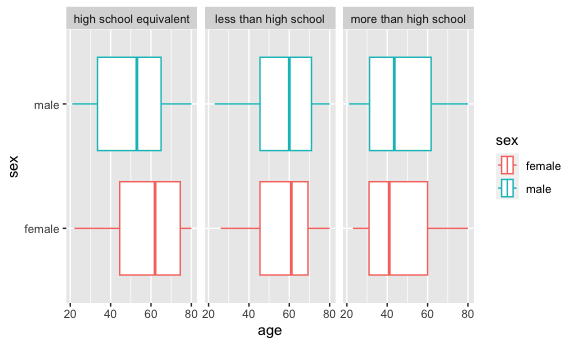
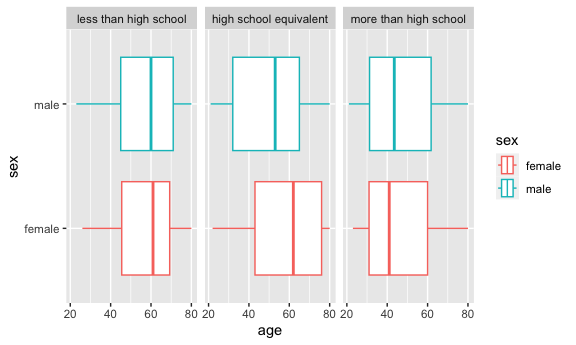
problem 3

diff --git a/p8105_hw3_yl5214.md b/p8105_hw3_yl5214.md
@@ -60,8 +60,7 @@ brfss_2010=brfss |>
   filter(n_obs>=7)
 ```
 
-In 2002, 6 states were observed at 7 or more locations. In 2010, 14
-states were observed at 7 or more locations.
+#### Comment: In 2002, 6 states were observed at 7 or more locations. In 2010, 14 states were observed at 7 or more locations.
 
 ## Construct a dataset that is limited to Excellent responses, and contains, year, state, and a variable that averages the data_value across locations within a state. Make a “spaghetti” plot of this average value over time within a state (that is, make a plot showing a line for each state across years – the geom_line geometry and group aesthetic will help).
 
@@ -75,6 +74,8 @@ brfss_excellent=brfss |>
   ggplot(aes (x= year, y= average_value, color=state))+
   geom_line()
 ```
+
+#### Comment:
 
 \##Make a two-panel plot showing, for the years 2006, and 2010,
 distribution of data_value for responses (“Poor” to “Excellent”) among
@@ -91,6 +92,8 @@ brfss_two=brfss |>
   geom_boxplot()+
   facet_grid(. ~ year)
 ```
+
+#### Comment:
 
 ## Problem 3
 
@@ -127,7 +130,10 @@ covar=
       2~'high school equivalent',
       3~'more than high school'
     )
-  )
+  ) |> 
+  mutate(
+    education=forcats::fct_relevel
+    (education, c('less than high school', 'high school equivalent', 'more than high school')))
 ```
 
 ``` r
@@ -137,7 +143,13 @@ accel=
              cols(
                'SEQN'=col_factor()
              ))|> 
-  janitor::clean_names()
+  janitor::clean_names() |> 
+    pivot_longer(
+    min1:min1440,
+    names_to = "minute",
+    names_prefix = "min",
+    values_to = "activity"
+  )
 
 merge=
   left_join(covar,accel, by = 'seqn')
@@ -146,7 +158,7 @@ merge=
 ## Produce a reader-friendly table for the number of men and women in each education category, and create a visualization of the age distributions for men and women in each education category. Comment on these items.
 
 ``` r
-merge |> 
+covar |> 
   count(education,sex) |> 
     pivot_wider(
     names_from =sex,
@@ -157,18 +169,11 @@ knitr::kable()
 
 | education              | female | male |
 |:-----------------------|-------:|-----:|
-| high school equivalent |     23 |   35 |
 | less than high school  |     28 |   27 |
+| high school equivalent |     23 |   35 |
 | more than high school  |     59 |   56 |
 
-#### Comment:
-
-The number of male and female are similar in less than high school and
-more than high school category. For high school equivalent education,
-the number of male and female are very different. The number of male and
-female in more than high school category are the highest among all three
-catergories. There is an increasing trend in number of male and female
-when education level increase.
+#### Comment: The number of male and female are similar in less than high school and more than high school category. For high school equivalent education, the number of male and female are very different. The number of male and female in more than high school category are the highest among all three catergories. There is an increasing trend in number of male and female when education level increase.
 
 ``` r
 merge |> 
@@ -185,21 +190,45 @@ merge |>
 ``` r
 merge_aggregate=merge |>
   group_by (seqn,sex,education,age) |> 
-  pivot_longer(
-    min1:min1440,
-    names_to = "minute",
-    names_prefix = "min",
-    values_to = "activity"
-  ) |> 
   summarize(total_activity = sum(activity)) |> 
   ggplot(aes(x=age , y=total_activity, color= sex))+
   geom_point()+
   geom_smooth()+
   facet_grid(. ~ education)+
-  labs(x = "Age", y = "Total Activity", color = "sex")
+  labs(
+    x = "Age",
+    y = "Total Activity", 
+    color = "sex",
+    title =" Total activities against age"
+    )
 ```
 
     ## `summarise()` has grouped output by 'seqn', 'sex', 'education'. You can
     ## override using the `.groups` argument.
 
-#### Comment: For ‘high school equivalent’ graph, total activity of female is overall greater than the total activity of man across age 20 to 80. Both male and female have an overall decreasing trendline from age 40 to 80, although they both have a slight increase from age 20 to 40, with the peak in age 40. For ‘less than high school’ graph, total activity of male is overall greater than the total activity of female across age 20 to 80. Both male and female have an overall decreasing trendline from age 20 to 80, although total activity of male has a bigger spike from age 40 to 60 with peak activity in age 20. For ‘more than high school’ graph, total activity of female is overall greater than the total activity of man across age 20 to 80. Both male and female have an overall decreasing trendline from age 20 to 80. However, from age 20 to 60, the total activity of female is constant. From age 20 to 40, the total activity of male is constant.
+#### Comment: For ‘less than high school’ graph, total activity of male is overall greater than the total activity of female across age 20 to 80. Both male and female have an overall decreasing trendline from age 20 to 80, although total activity of male has a bigger spike from age 40 to 60 with peak activity in age 20. For ‘high school equivalent’ graph, total activity of female is overall greater than the total activity of man across age 20 to 80. Both male and female have an overall decreasing trendline from age 40 to 80, although they both have a slight increase from age 20 to 40, with the peak in age 40. For ‘more than high school’ graph, total activity of female is overall greater than the total activity of man across age 20 to 80. Both male and female have an overall decreasing trendline from age 20 to 80. However, from age 20 to 60, the total activity of female is constant. From age 20 to 40, the total activity of male is constant.
+
+\##Accelerometer data allows the inspection activity over the course of
+the day. Make a three-panel plot that shows the 24-hour activity time
+courses for each education level and use color to indicate sex. Describe
+in words any patterns or conclusions you can make based on this graph;
+including smooth trends may help identify differences.
+
+``` r
+merge|>
+  group_by (seqn,sex,education) |> 
+  ggplot(aes(x=minute, y=activity, color=sex))+
+  geom_point(alpha=.5)+
+  geom_smooth(aes(group=sex),se=FALSE)+
+  facet_grid(.~education)+
+     labs(
+    x = "24-hour activity Time",
+    y = "Activity",
+    color = "sex",
+    title = "24-hour activity time courses for each education level"
+  )
+```
+
+    ## `geom_smooth()` using method = 'gam' and formula = 'y ~ s(x, bs = "cs")'
+
+<img src="p8105_hw3_yl5214_files/figure-gfm/unnamed-chunk-12-1.png" width="90%" />
